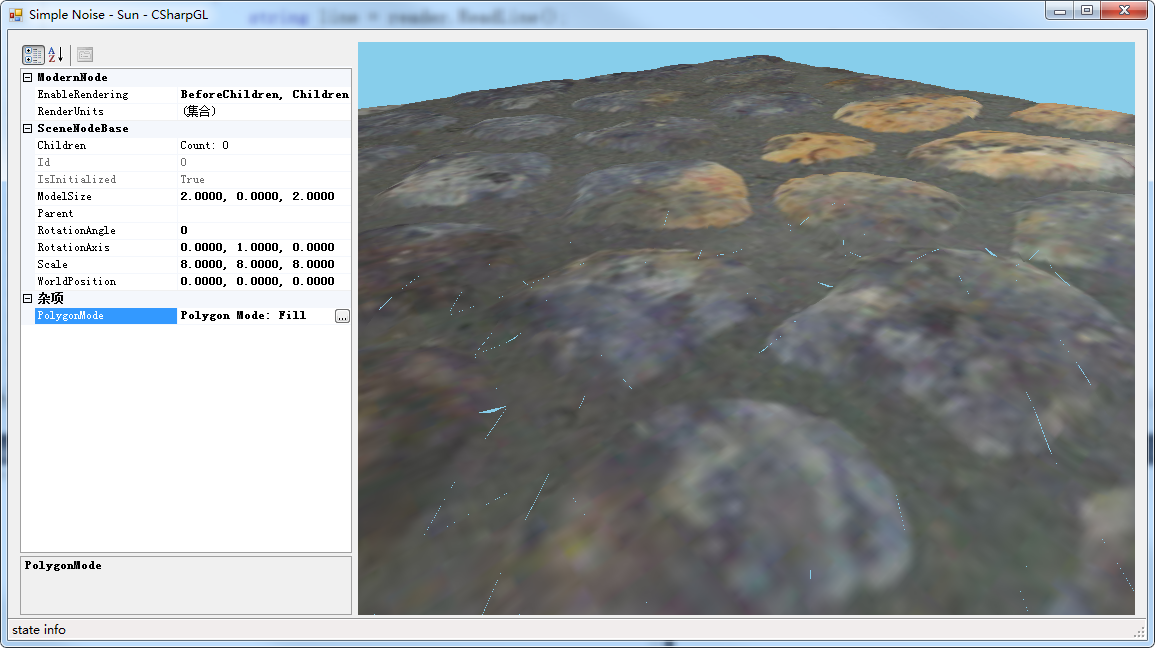
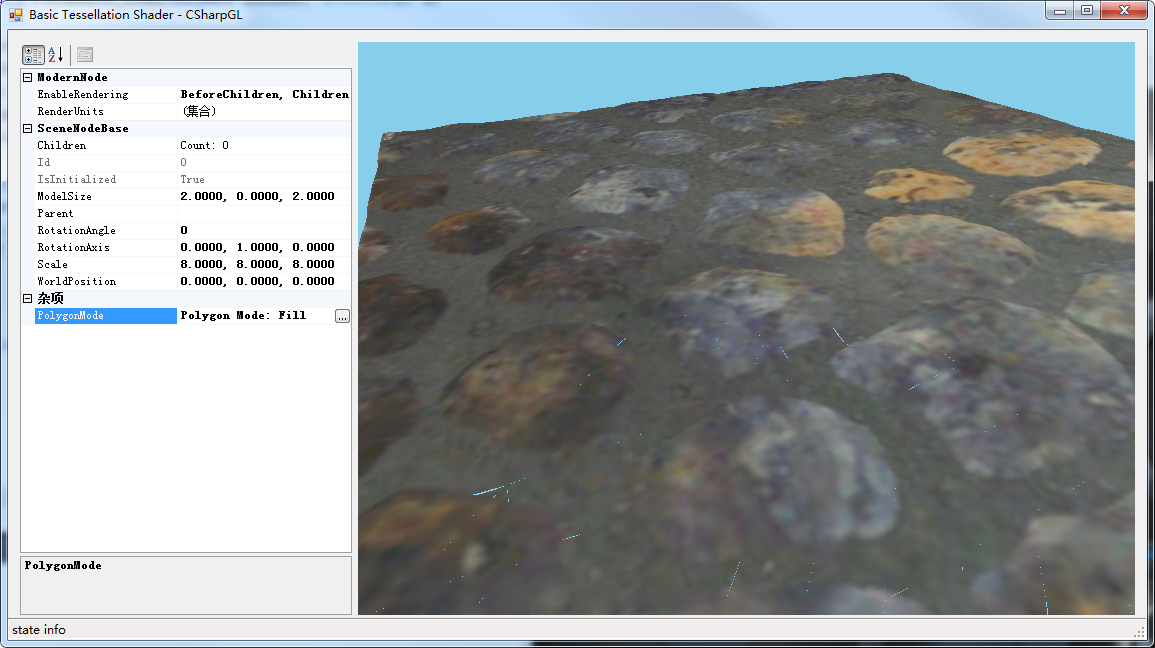
update

diff --git a/Demos/BasicTessellationShader/FormMain.Designer.cs b/Demos/BasicTessellationShader/FormMain.Designer.cs
@@ -82,7 +82,7 @@
             this.Controls.Add(this.propGrid);
             this.Controls.Add(this.winGLCanvas1);
             this.Name = "FormMain";
-            this.Text = "Simple Noise - Sun - CSharpGL";
+            this.Text = "Basic Tessellation Shader - CSharpGL";
             ((System.ComponentModel.ISupportInitialize)(this.winGLCanvas1)).EndInit();
             this.statusStrip1.ResumeLayout(false);
             this.statusStrip1.PerformLayout();
